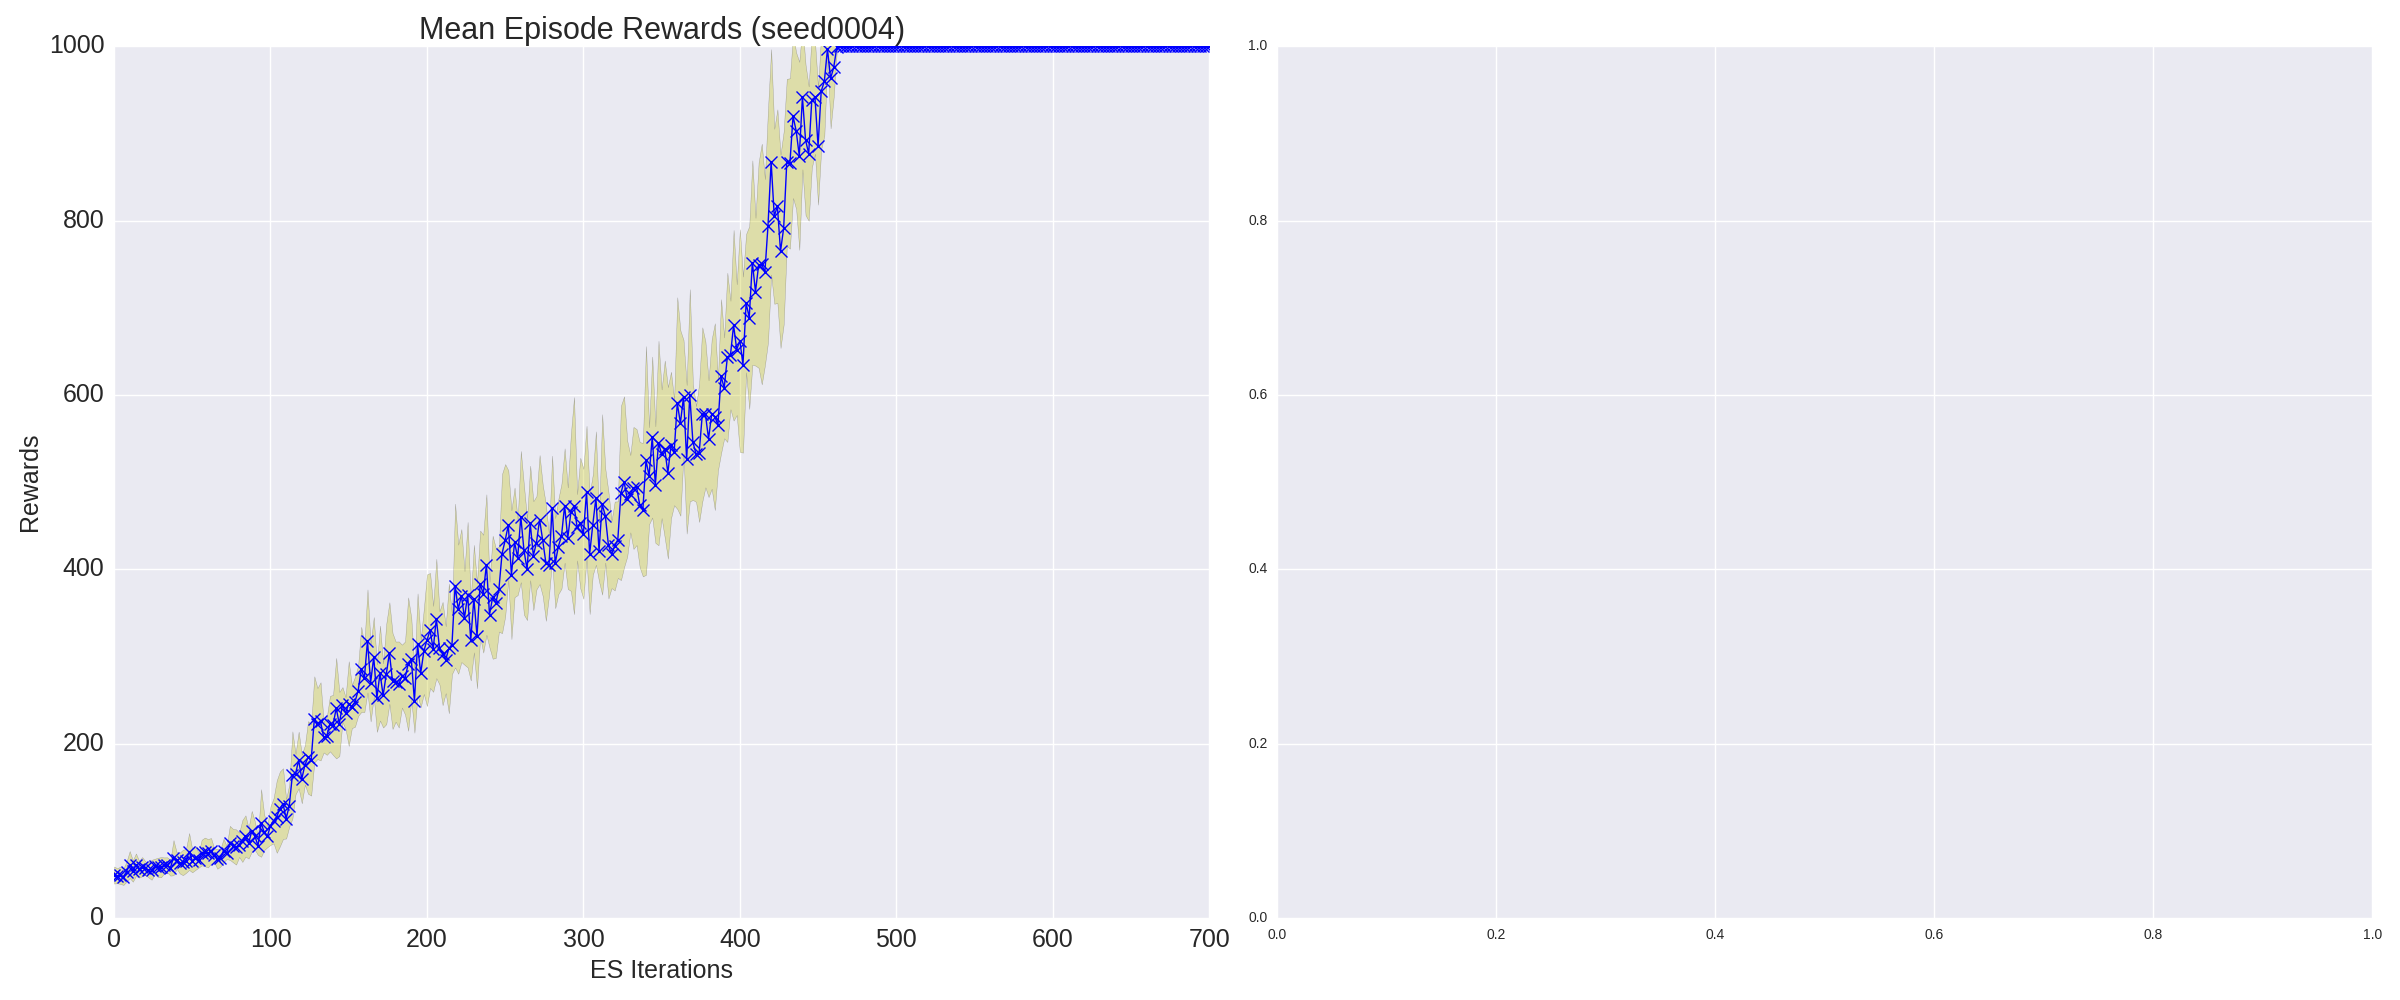
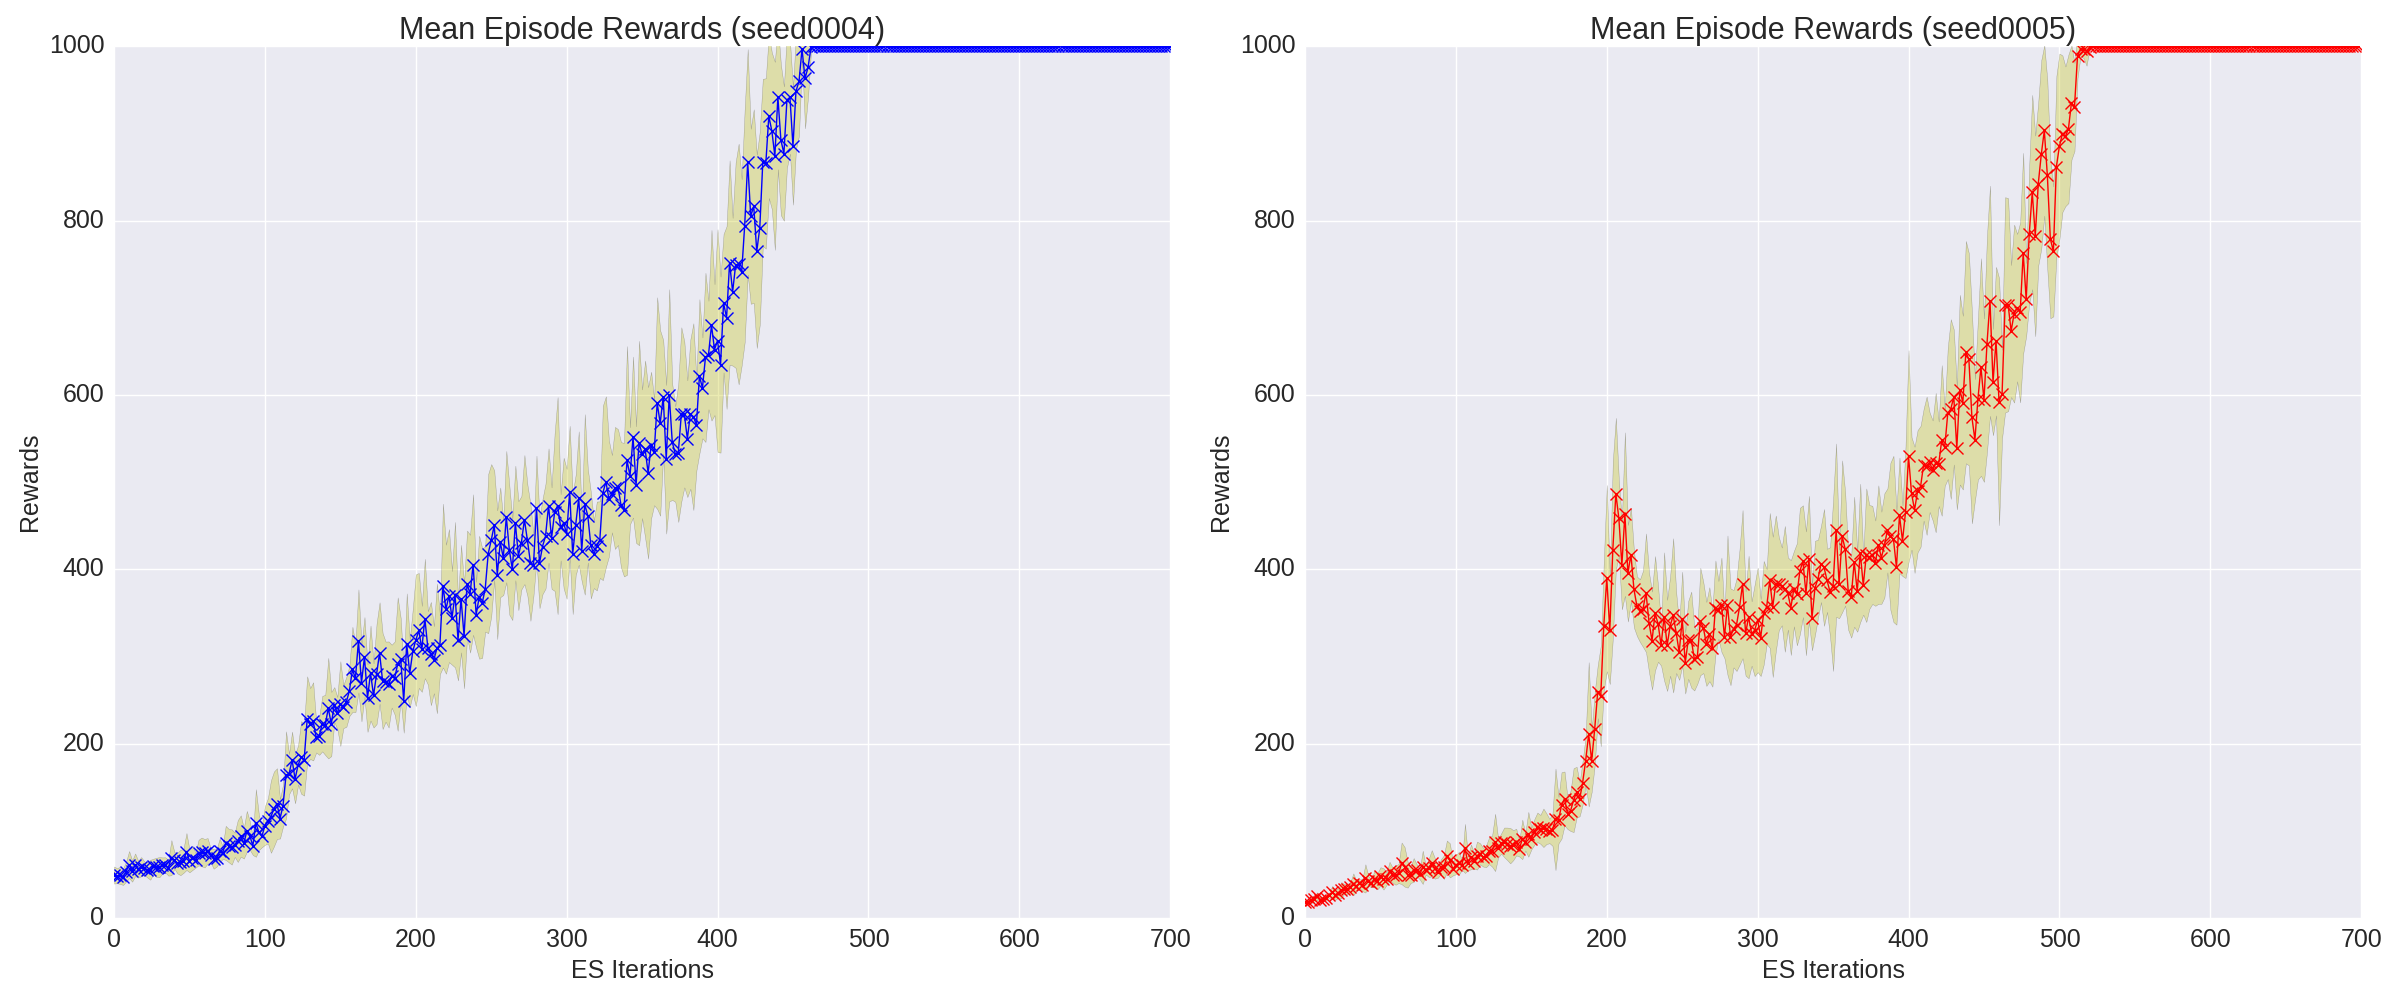
Updated ES with second IP seed. OK that's enough ES w/IP for now.

diff --git a/es/README.md b/es/README.md
@@ -31,11 +31,19 @@ the most critical step.
 I originally ran this for 800 iterations, but it seems like 700 is also a safe
 upper bound on the number of iterations.
 
-Args (this one is with `npop` not counting the mirroring):
+Args (this one is with `npop` **not** counting the mirroring):
 
 ```
 Namespace(do_not_save=False, envname='InvertedPendulum-v1', es_iters=800,
 log_every_t_iter=2, lrate_es=0.005, npop=100, render=False, seed=4, sigma=0.1,
+snapshot_every_t_iter=50, test_trajs=10, verbose=True)
+```
+
+and (with revised `npop` and also with 700 iterations):
+
+```
+Namespace(do_not_save=False, envname='InvertedPendulum-v1', es_iters=700,
+log_every_t_iter=2, lrate_es=0.005, npop=200, render=False, seed=5, sigma=0.1,
 snapshot_every_t_iter=50, test_trajs=10, verbose=True)
 ```
 
